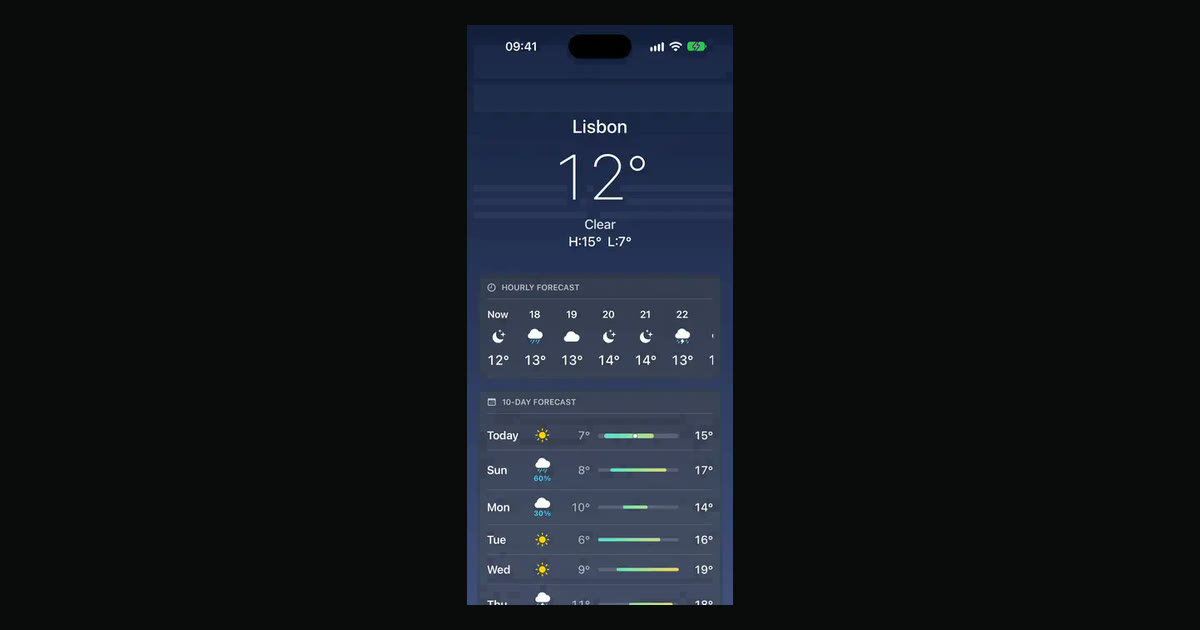
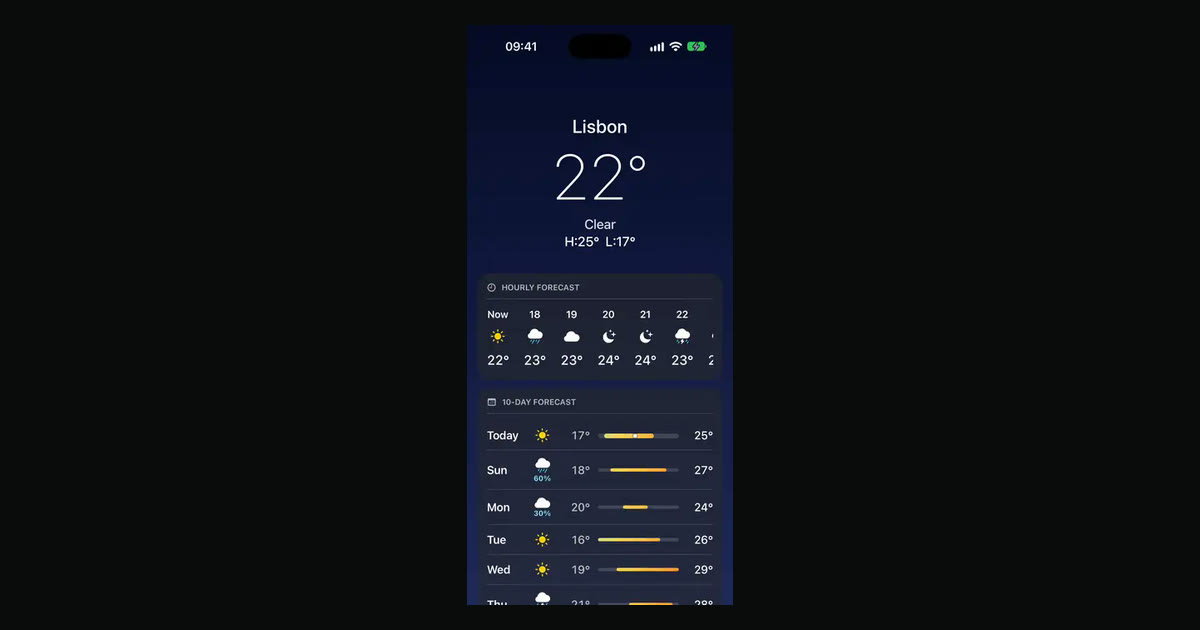
fix(patterns): readable lows, room on narrow screens and no deprecated Text sums in Weather Forecast Screen
A review found five problems in the first version:

- The VoiceOver label of a day joined Text values with +, deprecated in
  iOS 26: an app copying the component with warnings as errors would not
  build. It now interpolates them.
- The lows, at 60 % white, and the percentages in cyan read at about 2.9:1
  over a partly cloudy sky. The cards now have a shade under the material
  and the lows sit at 72 %, full white with Increase Contrast; measured on
  the simulator they read between 4.7:1 and 6.4:1 over every sky.
- From xxLarge text the fixed columns of a day passed 315 points, the room
  a card has on an iPhone SE, so the bar now takes a line of its own from
  there rather than from the accessibility sizes. The hourly symbols scale
  with the text and the large temperature shrinks before it wraps.
- A day at the very top of the week drew its capsule past the end of the
  track; its offset is now held inside.
- The scroll handler wrote the progress on every frame of a scroll; it now
  derives the progress in the transform, so it stops once the header is a
  single line. The large header leaves the VoiceOver order once collapsed,
  so the place and the temperature are not read twice.

The model's properties are documented, and the preview is recorded again
with the darker cards.

Riesgo: medio · one component

Changed region(s): [[0.37, 0.0302, 0.6167, 0.9651]]

diff --git a/Components/Patterns/WeatherForecastScreen/WeatherForecastScreen.swift b/Components/Patterns/WeatherForecastScreen/WeatherForecastScreen.swift
@@ -40,6 +40,7 @@ struct WeatherForecastScreen: View {
                         header
                             .opacity(1 - collapse)
                             .scaleEffect(1 - collapse * 0.12, anchor: .top)
+                            .accessibilityHidden(collapse >= 0.5)
 
                         WeatherForecastScreenHourlyCard(hours: forecast.hours)
                         WeatherForecastScreenDailyCard(days: forecast.days, current: forecast.temperature)
@@ -48,10 +49,14 @@ struct WeatherForecastScreen: View {
                     .padding(.bottom, 24)
                 }
                 .scrollIndicators(.hidden)
-                .onScrollGeometryChange(for: CGFloat.self) { geometry in
-                    geometry.contentOffset.y + geometry.contentInsets.top
-                } action: { _, offset in
-                    collapse = WeatherForecastScreenMath.collapse(offset: offset, distance: collapseDistance)
+                // The transform returns the progress itself, so scrolling past the header stops updating the view.
+                .onScrollGeometryChange(for: Double.self) { geometry in
+                    WeatherForecastScreenMath.collapse(
+                        offset: geometry.contentOffset.y + geometry.contentInsets.top,
+                        distance: collapseDistance
+                    )
+                } action: { _, progress in
+                    collapse = progress
                 }
             }
         }
@@ -66,6 +71,8 @@ struct WeatherForecastScreen: View {
             Text(forecast.temperature.weatherText)
                 .font(.system(size: temperatureSize, weight: .thin))
                 .monospacedDigit()
+                .lineLimit(1)
+                .minimumScaleFactor(0.5)
 
             Text(forecast.condition.title)
                 .font(.title3.weight(.medium))
@@ -132,7 +139,9 @@ nonisolated enum WeatherForecastScreenCondition: Sendable, CaseIterable {
 nonisolated struct WeatherForecastScreenHour: Identifiable, Sendable {
     /// The start of the hour.
     let date: Date
+    /// The sky in that hour.
     let condition: WeatherForecastScreenCondition
+    /// The temperature in that hour, in any unit; it is shown in the region's.
     let temperature: Measurement<UnitTemperature>
     /// Whether the sun is up, which picks the day or the night symbol.
     var isDaylight = true
@@ -144,8 +153,11 @@ nonisolated struct WeatherForecastScreenHour: Identifiable, Sendable {
 nonisolated struct WeatherForecastScreenDay: Identifiable, Sendable {
     /// Any moment of the day; only its day is shown.
     let date: Date
+    /// The sky for most of the day.
     let condition: WeatherForecastScreenCondition
+    /// The lowest temperature of the day, in any unit.
     let low: Measurement<UnitTemperature>
+    /// The highest temperature of the day, in any unit.
     let high: Measurement<UnitTemperature>
     /// The chance of rain or snow, from 0 to 1. Shown under the symbol from ``shownChance`` up.
     var precipitationChance: Double = 0
@@ -162,6 +174,7 @@ nonisolated struct WeatherForecastScreenDay: Identifiable, Sendable {
 nonisolated struct WeatherForecastScreenForecast: Sendable {
     /// The name of the place, shown as it is.
     let location: String
+    /// The sky now, which picks the colors of the sky and what falls from it.
     let condition: WeatherForecastScreenCondition
     /// Whether the sun is up now, which picks the colors of the sky.
     var isDaylight = true
@@ -238,6 +251,8 @@ private struct WeatherForecastScreenCard<Content: View>: View {
             content
         }
         .padding(14)
+        // A shade under the material keeps the dimmer text of the cards readable over a light sky.
+        .background(Color.black.opacity(0.18), in: .rect(cornerRadius: 18))
         .background(.ultraThinMaterial, in: .rect(cornerRadius: 18))
         .environment(\.colorScheme, .dark)
     }
@@ -245,6 +260,9 @@ private struct WeatherForecastScreenCard<Content: View>: View {
 
 private struct WeatherForecastScreenHourlyCard: View {
     let hours: [WeatherForecastScreenHour]
+
+    /// One height for every symbol, so the temperatures under them line up.
+    @ScaledMetric(relativeTo: .title3) private var symbolHeight: CGFloat = 28
 
     var body: some View {
         WeatherForecastScreenCard(title: "Hourly Forecast", systemImage: "clock") {
@@ -264,7 +282,7 @@ private struct WeatherForecastScreenHourlyCard: View {
                             Image(systemName: hour.condition.symbolName(isDaylight: hour.isDaylight))
                                 .symbolRenderingMode(.multicolor)
                                 .font(.title3)
-                                .frame(height: 28)
+                                .frame(height: symbolHeight)
                                 .accessibilityLabel(Text(hour.condition.title))
 
                             Text(hour.temperature.weatherText)
@@ -289,8 +307,10 @@ private struct WeatherForecastScreenDailyCard: View {
     @ScaledMetric(relativeTo: .body) private var temperatureWidth: CGFloat = 40
     @Environment(\.dynamicTypeSize) private var dynamicTypeSize
 
-    /// Dimmer than the high, as the low is the less telling of the two.
-    private let lowColor = Color.white.opacity(0.6)
+    @Environment(\.colorSchemeContrast) private var contrast
+
+    /// Dimmer than the high, as the low is the less telling of the two, unless Increase Contrast is on.
+    private var lowColor: Color { contrast == .increased ? .white : .white.opacity(0.72) }
 
     var body: some View {
         WeatherForecastScreenCard(title: "10-Day Forecast", systemImage: "calendar") {
@@ -310,9 +330,9 @@ private struct WeatherForecastScreenDailyCard: View {
     }
 
     private func row(_ day: WeatherForecastScreenDay, isToday: Bool, span: ClosedRange<Double>) -> some View {
-        // At accessibility sizes the columns no longer fit side by side, so the bar takes a line of its own.
+        // From xxLarge the columns no longer fit side by side on a narrow iPhone, so the bar takes a line of its own.
         Group {
-            if dynamicTypeSize.isAccessibilitySize {
+            if dynamicTypeSize >= .xxLarge {
                 VStack(alignment: .leading, spacing: weatherForecastScreenGap) {
                     HStack {
                         dayName(of: day, isToday: isToday)
@@ -373,7 +393,7 @@ private struct WeatherForecastScreenDailyCard: View {
             if day.showsPrecipitation {
                 Text(day.precipitationChance, format: .percent.precision(.fractionLength(0)))
                     .font(.caption2.weight(.bold))
-                    .foregroundStyle(.cyan)
+                    .foregroundStyle(Color(red: 0.55, green: 0.88, blue: 1))
             }
         }
     }
@@ -388,11 +408,12 @@ private struct WeatherForecastScreenDailyCard: View {
 
     private func label(for day: WeatherForecastScreenDay, isToday: Bool) -> Text {
         let name = isToday ? Text("Today") : Text(day.date, format: .dateTime.weekday(.wide))
-        var label = name + Text(", ") + Text(day.condition.title)
-        if day.showsPrecipitation {
-            label = label + Text(", ") + Text("\(day.precipitationChance.formatted(.percent.precision(.fractionLength(0)))) chance of precipitation")
+        let temperatures = Text("Low \(day.low.weatherText), high \(day.high.weatherText)")
+        guard day.showsPrecipitation else {
+            return Text("\(name), \(Text(day.condition.title)), \(temperatures)")
         }
-        return label + Text(", ") + Text("Low \(day.low.weatherText), high \(day.high.weatherText)")
+        let chance = day.precipitationChance.formatted(.percent.precision(.fractionLength(0)))
+        return Text("\(name), \(Text(day.condition.title)), \(chance) chance of precipitation, \(temperatures)")
     }
 }
 
@@ -412,11 +433,14 @@ private struct WeatherForecastScreenRangeBar: View {
                 Capsule()
                     .fill(.white.opacity(0.15))
 
+                let barWidth = min(width, max(height, width * (range.upperBound - range.lowerBound)))
+
                 LinearGradient(colors: gradientColors, startPoint: .leading, endPoint: .trailing)
                     .mask(alignment: .leading) {
+                        // A day at the top of the week still shows its whole capsule inside the track.
                         Capsule()
-                            .frame(width: max(height, width * (range.upperBound - range.lowerBound)))
-                            .offset(x: width * range.lowerBound)
+                            .frame(width: barWidth)
+                            .offset(x: min(width * range.lowerBound, width - barWidth))
                     }
 
                 if let marker {
